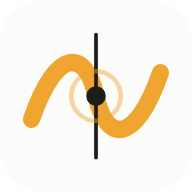
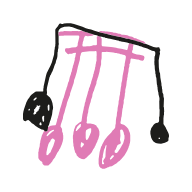
Icono: nota negra con trazos rosas dibujada por un niño
Vectorizada desde la foto (no se sube) con icons/vectorizar_icono.py,
en los colores de la app. Se regeneran todos los tamaños.

Claude-Session: https://claude.ai/code/session_01BovTS9AUxnLdmr5U2F7D88

Changed region(s): [[0.0938, 0.0938, 0.9062, 0.9062]]

diff --git a/icons/vectorizar_icono.py b/icons/vectorizar_icono.py
@@ -1,0 +1,53 @@
+"""Vectoriza el icono dibujado por un niño (nota negra con trazos rosas) y genera icons/icon.svg
+(y en /tmp las versiones cuadrada y maskable de las que salen icon-180.png e icon-maskable-512.png). Uso: python vectorizar_icono.py foto.jpg
+Requisitos: pip install opencv-python numpy
+El recorte está ajustado a la foto concreta (primer plano de la nota, 1659x2212).
+Separa dos tintas: negro (poco color y oscuro) y rosa (saturado, tono rosa); cada una se pinta
+con el color de la app: negro #1d1d1b y rosa #e07bb5 (color 6 de los instrumentos).
+"""
+import sys, cv2, numpy as np
+src = sys.argv[1] if len(sys.argv) > 1 else 'nota.jpg'
+c = cv2.imread(src)[560:1560, 330:1290]
+hsv = cv2.cvtColor(c, cv2.COLOR_BGR2HSV)
+H, S, V = hsv[..., 0].astype(int), hsv[..., 1].astype(int), hsv[..., 2].astype(float)
+bg = cv2.GaussianBlur(cv2.dilate(V.astype(np.uint8), np.ones((45, 45), np.uint8)), (0, 0), 15).astype(float)
+Vn = np.clip(V / bg * 255, 0, 255)                   # brillo relativo al papel (quita sombras)
+black = ((Vn < 120) & (S < 110)).astype(np.uint8) * 255
+pink = ((S > 60) & ((H > 150) | (H < 8)) & (Vn > 70)).astype(np.uint8) * 255
+
+def clean(m, close=5, min_area=1500):
+    m = cv2.morphologyEx(m, cv2.MORPH_CLOSE, np.ones((close, close), np.uint8))
+    m = cv2.morphologyEx(m, cv2.MORPH_OPEN, np.ones((3, 3), np.uint8))
+    k, lab, st, _ = cv2.connectedComponentsWithStats(m)
+    keep = np.zeros_like(m)
+    for i in range(1, k):
+        if st[i][4] >= min_area: keep[lab == i] = 255   # quita motas
+    m = cv2.resize(keep, None, fx=2, fy=2, interpolation=cv2.INTER_CUBIC)
+    m = cv2.GaussianBlur(m, (0, 0), 3); _, m = cv2.threshold(m, 127, 255, cv2.THRESH_BINARY)
+    return m
+black, pink = clean(black), clean(pink)
+pink[black > 0] = 0                                   # el negro va por encima
+ys, xs = np.nonzero(black | pink); x0, x1, y0, y1 = xs.min(), xs.max(), ys.min(), ys.max()
+side = max(x1 - x0, y1 - y0)
+
+def paths(m, color, size, pad):
+    # coloca el dibujo centrado en un cuadrado de 'size' con margen 'pad' (proporción)
+    s = size * (1 - 2 * pad) / side
+    ox = size / 2 - (x0 + x1) / 2 * s; oy = size / 2 - (y0 + y1) / 2 * s
+    cs, _ = cv2.findContours(m, cv2.RETR_CCOMP, cv2.CHAIN_APPROX_NONE)
+    d = ''
+    for cc in cs:
+        cc = cv2.approxPolyDP(cc, 1.5, True).reshape(-1, 2)
+        if len(cc) < 3: continue
+        d += 'M' + ' L'.join(f'{px*s+ox:.1f} {py*s+oy:.1f}' for px, py in cc) + 'Z'
+    return f'<path fill="{color}" d="{d}"/>'
+
+def svg(rounded, pad):
+    bgr = f'<rect width="512" height="512" rx="{112 if rounded else 0}" fill="#ffffff"/>'
+    body = paths(pink, '#e07bb5', 512, pad) + paths(black, '#1d1d1b', 512, pad)
+    return f'<svg xmlns="http://www.w3.org/2000/svg" viewBox="0 0 512 512" fill-rule="evenodd">{bgr}{body}</svg>\n'
+
+open('icon.svg', 'w').write(svg(True, 0.12))            # pestaña y Android "any"
+open("/tmp/icon-square.svg", "w").write(svg(False, 0.12))    # iPhone/iPad (el sistema redondea): se usa para icon-180.png
+open("/tmp/icon-maskable.svg", "w").write(svg(False, 0.22))  # Android recorta en círculo: más margen; se usa para icon-maskable-512.png
+print('listo', side)

diff --git a/CONTEXTO.md b/CONTEXTO.md
@@ -14,7 +14,7 @@ Web app de una sola página donde se dibuja con colores y el dibujo suena como m
 
 - **Web:** GitHub Pages del repositorio `fieroestudio/dibujatumusica` (ver arriba). Quien tiene el enlace ve cada versión nueva al recargar, así que no se publican versiones rotas.
 - **Dispositivos de Adrian:** Android y PC, no hay iOS.
-- **Versión actual:** v13 (12-11-2026): icono y manifiesto para guardarla como app. v12 trajo 10 colores, tres juegos de sonidos, compartir, descargas y pantalla completa. Nadie más tiene el enlace todavía.
+- **Versión actual:** v14 (12-11-2026): icono dibujado por un niño. v13: icono y manifiesto para guardarla como app. v12 trajo 10 colores, tres juegos de sonidos, compartir, descargas y pantalla completa. Nadie más tiene el enlace todavía.
 
 ## Cómo funciona
 
@@ -65,7 +65,7 @@ El número de cada color es el que se guarda en el código: no reordenar. 0-4 va
 - **Grupo sonido:** los 10 colores (5×2 en vertical, 2×5 en horizontal), la pastilla de velocidad y el botón de juego de sonidos. **Grupo herramientas:** play, goma, deshacer, papelera, Compartir y descargar, y Mis dibujos.
 - **Vertical:** título, lienzo, sonido y herramientas. **Horizontal:** sonido, lienzo y herramientas. En el móvil en horizontal, el título va dentro del lienzo vacío.
 - **Pantalla completa:** botón pequeño arriba a la izquierda. No aparece donde el navegador no lo permite (iPhone) ni cuando se abre como app instalada.
-- **Icono y app instalable (v13):** icono = un trazo ámbar con el cabezal, el punto negro y el aro de una nota que suena (opción elegida por Adrian para probar; se puede cambiar). Archivos: `icons/icon.svg` (pestaña), `icon-180.png` (iPhone/iPad), `icon-192.png` y `icon-512.png` (Android) e `icon-maskable-512.png` (Android recorta la forma), y `manifest.webmanifest` con nombre corto "Dibuja música" y apertura a pantalla completa. Los PNG se generaron desde el SVG con Chrome headless.
+- **Icono y app instalable (v13, icono cambiado en v14):** el icono es una nota dibujada por un niño (12-11-2026): corchetes negros y tres notas rosas. Adrian eligió esta entre varias del mismo papel. Vectorizada con `icons/vectorizar_icono.py` (separa tinta negra y rosa; se pintan con #1d1d1b y el rosa de la app #e07bb5) sobre fondo blanco. La foto original no se sube (`.gitignore`). Archivos: `icons/icon.svg` (pestaña), `icon-180.png` (iPhone/iPad), `icon-192.png` y `icon-512.png` (Android) e `icon-maskable-512.png` (más margen, Android lo recorta en círculo), y `manifest.webmanifest` con nombre corto "Dibuja música" y apertura a pantalla completa. A 32 px los trazos rosas finos se ven flojos. Alternativa guardada en la misma hoja: la onda azul con la línea negra y el punto (es justo la idea del icono provisional).
 - **Título:** "DIBUJA TU MÚSICA" escrito a mano por un niño (foto del 11-11-2026), vectorizado letra a letra con OpenCV en `TITLE_SVG`. Cada letra va en un color de instrumento. Se mantuvieron las "I" en forma de bandera; solo se ajustó el espacio entre letras.
 - **Cuadrícula:** líneas por cada nota y columnas cada 2 pasos. No hacerla más fina que las notas reales, porque engañaría.
 - **Goma:** borra con el dedo y parte los trazos. Deshacer funciona por instantáneas (máximo 40) y cubre trazo, borrado y papelera.
@@ -93,9 +93,8 @@ Un botón abre un panel con cuatro opciones. Los archivos se generan primero y l
 2. **Probar el vídeo en el Android:** comprobar que el MP4 se abre en la galería y en WhatsApp.
 3. **Probar en un iPad o iPhone** antes de mandárselo a alguien que use Apple. Ni Adrian ni Claude pueden probarlo ahora.
 4. **Páginas de una misma canción que suenan seguidas** (como los botones 1-2-3 del original). Esperar a ver si alguien lo pide.
-5. **Icono definitivo:** Adrian pasará un dibujo hecho por un niño para sustituir el icono provisional (vectorizarlo como el título y regenerar todos los PNG).
-6. **Que funcione sin conexión** (service worker): Adrian quiere añadirlo cuando terminen los cambios actuales. Hasta entonces no, porque haría que cada versión nueva tardara una recarga más en verse.
-7. **Para profesores, solo si alguien lo pide:** nombres de notas en la cuadrícula, elegir escala, pregunta y respuesta, juegos con reglas. Adrian prefiere que siga siendo un juego, no una app didáctica.
+5. **Que funcione sin conexión** (service worker): Adrian quiere añadirlo cuando terminen los cambios actuales. Hasta entonces no, porque haría que cada versión nueva tardara una recarga más en verse.
+6. **Para profesores, solo si alguien lo pide:** nombres de notas en la cuadrícula, elegir escala, pregunta y respuesta, juegos con reglas. Adrian prefiere que siga siendo un juego, no una app didáctica.
 
 ## Decisiones descartadas y por qué
 

diff --git a/CLAUDE.md b/CLAUDE.md
@@ -6,7 +6,7 @@ Antes de cambiar nada, lee `CONTEXTO.md`. Explica cómo funciona la app, qué se
 
 - Toda la app está en `index.html`: HTML, CSS y JS en un solo archivo, sin npm y sin compilación. Mantenerlo así salvo que Adrian pida lo contrario.
 - Única excepción aprobada por Adrian: `lib/lame.min.js` (codificador MP3, LGPL, sin modificar), que se carga solo al pulsar Sonido en Compartir y descargar.
-- Además: `manifest.webmanifest` e `icons/` (icono de la app). Si cambia el icono, regenerar todos los PNG desde `icons/icon.svg`.
+- Además: `manifest.webmanifest` e `icons/` (icono de la app). El icono es un dibujo de un niño vectorizado con `icons/vectorizar_icono.py` (la foto solo está en la carpeta local). Si cambia, regenerar todos los PNG.
 - **Publicación:** GitHub Pages desde la rama `main`, carpeta raíz. Un push a `main` publica, así que no se sube nada sin probar.
 - `titulo/vectorizar.py` genera `titulo/titulo.svg` a partir de la foto original. La foto **no se sube al repositorio** (`.gitignore`): está solo en la carpeta local de Adrian. El SVG va incrustado en `index.html` (`TITLE_SVG`).
 
